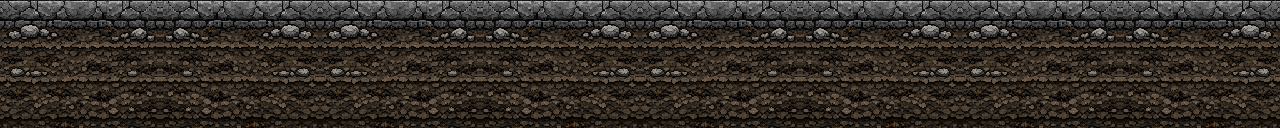
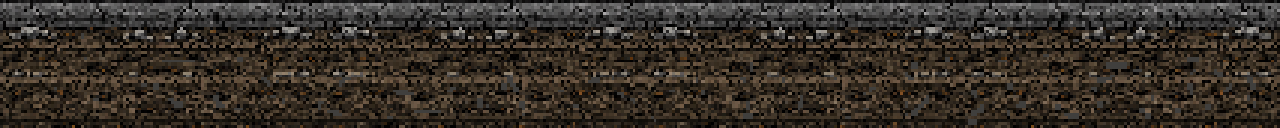
Created king txt box empty

diff --git a/Game Attempts/Game_Modules/Corridor.py b/Game Attempts/Game_Modules/Corridor.py
@@ -16,29 +16,30 @@ PLATFORM_HEIGHT = 100
 NORMAL_MOVEMENT_SPEED = 9
 BACKGROUND_MOVEMENT_SPEED = 7
 SCREEN_WIDTH = 1280
+KING_TEXT = "My Knight!! The princess is getting married today, you must put your life on the line to ensure nothing goes wrong. Continue on to the courtyard!"
 
 left_forcefield = 0
 right_forcefield = 5120 #4 floors length
 section = "Corridoor"
 
-player_still_image = pygame.image.load("D:\\Blaze\\Holiday learning\\Python\\GitHub\\Ace-Repository\\Game Attempts\\Images\\Player\\Test Player Still.png").convert_alpha()
+player_still_image = pygame.image.load("N:\\Gurveen Work\\Y12\\Computer Science\\Game Attempts\\Images\\Player\\Test Player Still.png").convert_alpha()
 
-player_forward_spritesheet = pygame.image.load("D:\\Blaze\\Holiday learning\\Python\\GitHub\\Ace-Repository\\Game Attempts\\Images\\Player\\Player Forward Animation.png").convert_alpha()
+player_forward_spritesheet = pygame.image.load("N:\\Gurveen Work\\Y12\\Computer Science\\Game Attempts\\Images\\Player\\Player Forward Animation.png").convert_alpha()
 player_forward_animation_list = []
 
-player_backward_spritesheet = pygame.image.load("D:\\Blaze\\Holiday learning\\Python\\GitHub\\Ace-Repository\\Game Attempts\\Images\\Player\\Player Backward Animation.png").convert_alpha()
+player_backward_spritesheet = pygame.image.load("N:\\Gurveen Work\\Y12\\Computer Science\\Game Attempts\\Images\\Player\\Player Backward Animation.png").convert_alpha()
 player_backward_animation_list = []
 
-player_upward_spritesheet = pygame.image.load("D:\\Blaze\\Holiday learning\\Python\\GitHub\\Ace-Repository\\Game Attempts\\Images\\Player\\Player Upward Animation.png").convert_alpha()
+player_upward_spritesheet = pygame.image.load("N:\\Gurveen Work\\Y12\\Computer Science\\Game Attempts\\Images\\Player\\Player Upward Animation.png").convert_alpha()
 player_upward_animation_list = []
 
-player_downward_spritesheet = pygame.image.load("D:\\Blaze\\Holiday learning\\Python\\GitHub\\Ace-Repository\\Game Attempts\\Images\\Player\\Player Downward Animation.png").convert_alpha()
+player_downward_spritesheet = pygame.image.load("N:\\Gurveen Work\\Y12\\Computer Science\\Game Attempts\\Images\\Player\\Player Downward Animation.png").convert_alpha()
 player_downward_animation_list = []
 
-player_forward_running_spritesheet = pygame.image.load("D:\\Blaze\\Holiday learning\\Python\\GitHub\\Ace-Repository\\Game Attempts\\Images\\Player\\Player Forward Running Animation.png").convert_alpha()
+player_forward_running_spritesheet = pygame.image.load("N:\\Gurveen Work\\Y12\\Computer Science\\Game Attempts\\Images\\Player\\Player Forward Running Animation.png").convert_alpha()
 player_forward_running_animation_list = []
 
-player_backward_running_spritesheet = pygame.image.load("D:\\Blaze\\Holiday learning\\Python\\GitHub\\Ace-Repository\\Game Attempts\\Images\\Player\\Player Backward Running Animation.png").convert_alpha()
+player_backward_running_spritesheet = pygame.image.load("N:\\Gurveen Work\\Y12\\Computer Science\\Game Attempts\\Images\\Player\\Player Backward Running Animation.png").convert_alpha()
 player_backward_running_animation_list = []
 
 def get_image_from_sheet(list,sheet,width,height):
@@ -259,6 +260,11 @@ class Player(pygame.sprite.Sprite):
         for gate in Gates:
             if self.rect.colliderect(gate.rect) and keys[pygame.K_e]:
                 section = "Main_Courtyard" 
+    
+    def Text_Box(self, Text_Box):
+        if self.current_time > 5000 and self.current_time < 15000:
+            Text_Box.draw(Screen)
+
 
 
     def update(self):
@@ -267,6 +273,7 @@ class Player(pygame.sprite.Sprite):
         self.Platform_Collisions(corridor_platforms)
         self.Update_Animation()
         self.Gate_Check(corridor_door)
+        self.Text_Box(text_box)
 
 
 
@@ -277,7 +284,7 @@ class Corridor_Background(pygame.sprite.Sprite):
     def __init__(self, left_x_pos):
         super().__init__()
         self.left_x_pos = left_x_pos #-1280, 0, 1280
-        self.image = pygame.image.load("D:\\Blaze\\Holiday learning\\Python\\GitHub\\Ace-Repository\\Game Attempts\\Images\\Wall\\Wall Pixel.png").convert_alpha()
+        self.image = pygame.image.load("N:\\Gurveen Work\\Y12\\Computer Science\\Game Attempts\\Images\\Wall\\Wall Pixel.png").convert_alpha()
         self.rect = self.image.get_rect(topleft = (left_x_pos,0))
 
     def destroy(self):
@@ -301,7 +308,7 @@ class Corridor_Floor(pygame.sprite.Sprite):
     def __init__(self, left_x_pos):
         super().__init__()
         self.left_x_pos = left_x_pos #-1280, 0, 1280
-        self.image = pygame.image.load("D:\\Blaze\\Holiday learning\\Python\\GitHub\\Ace-Repository\\Game Attempts\\Images\\Floor\\Floor Pixel.png").convert_alpha()
+        self.image = pygame.image.load("N:\\Gurveen Work\\Y12\\Computer Science\\Game Attempts\\Images\\Floor\\Floor Pixel.png").convert_alpha()
         self.rect = self.image.get_rect(bottomleft = (left_x_pos,720))
 
     def destroy(self):
@@ -324,7 +331,7 @@ corridor_floor.add(Corridor_Floor(0),Corridor_Floor(SCREEN_WIDTH),Corridor_Floor
 class Corridor_Platform(pygame.sprite.Sprite):
     def __init__(self, topleft_x, topleft_y):
         super().__init__()
-        self.image = pygame.image.load("D:\\Blaze\\Holiday learning\\Python\\GitHub\\Ace-Repository\\Game Attempts\\Images\\Platform.png").convert_alpha()
+        self.image = pygame.image.load("N:\\Gurveen Work\\Y12\\Computer Science\\Game Attempts\\Images\\Platform\\Platform.png").convert_alpha()
         self.rect = self.image.get_rect(topleft = (topleft_x, topleft_y))
 
 
@@ -335,8 +342,17 @@ corridor_platforms.add(Corridor_Platform(400,400), Corridor_Platform(800,325), C
 class Corridor_Door(pygame.sprite.Sprite):
     def __init__(self):
         super().__init__()
-        self.image = pygame.image.load("D:\\Blaze\\Holiday learning\\Python\\GitHub\\Ace-Repository\\Game Attempts\\Images\\Gate\\Gate Pixel.png").convert_alpha()
+        self.image = pygame.image.load("N:\\Gurveen Work\\Y12\\Computer Science\\Game Attempts\\Images\\Gate\\Gate Pixel.png").convert_alpha()
         self.rect = self.image.get_rect(topleft = (right_forcefield - 350,160))
 
 corridor_door = pygame.sprite.GroupSingle()
 corridor_door.add(Corridor_Door())
+
+class Text_Box(pygame.sprite.Sprite):
+    def __init__(self):
+        super().__init__()
+        self.image = pygame.image.load("N:\\Gurveen Work\\Y12\\Computer Science\\Game Attempts\\Images\\Text Box\\Animation\\My Knight.png").convert_alpha()
+        self.rect = self.image.get_rect(topleft = (0, 10))
+
+text_box = pygame.sprite.GroupSingle()
+text_box.add(Text_Box())